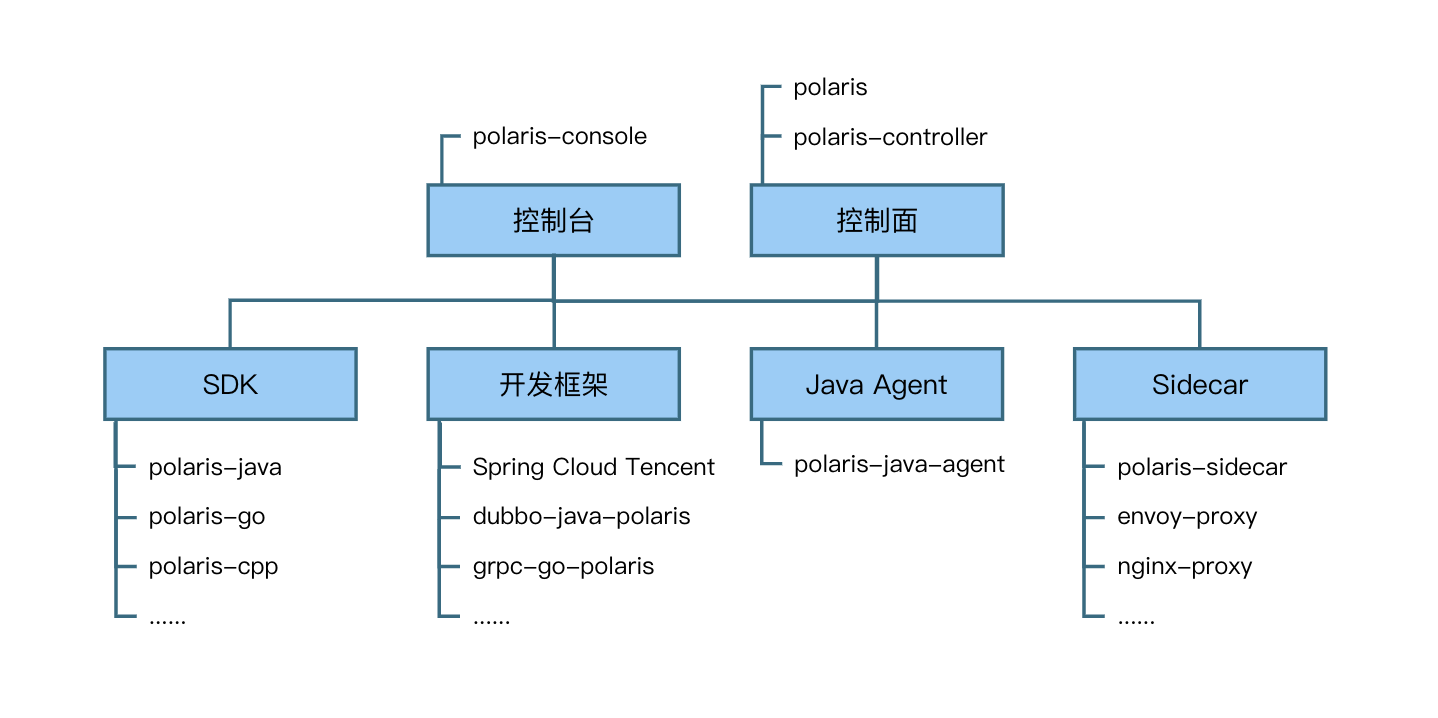
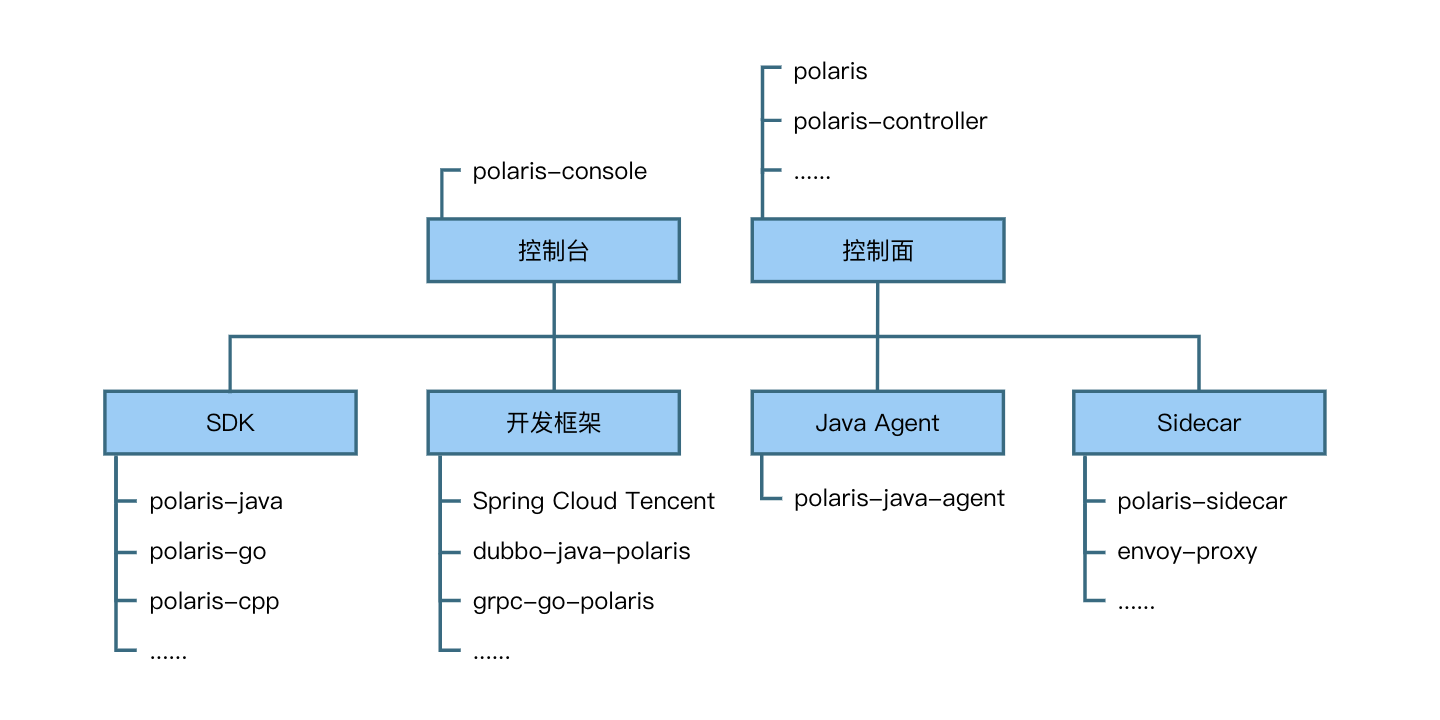
修改文档【北极星是什么/简介】：优化系统组件图片

diff --git a/docs/zh/doc/北极星是什么/简介.md b/docs/zh/doc/北极星是什么/简介.md
@@ -49,11 +49,11 @@
 
 - Polaris：采用 Go 语言实现，没有状态，部署简单。支持服务注册发现、健康检查和元数据管理，支持自定义路由、限流和熔断规则，支持配置变更、版本管理和远程下发，支持各种数据面的接入。简单来说，可以覆盖服务注册中心、服务网格控制面和配置中心的功能。
 
-- Polaris Controller：可选的功能组件。支持 K8s 服务同步和网格代理注入。K8s 服务同步将 K8s 服务全量或者按需同步到北极星，应用程序不需要显式地注册服务。网格代理注入按需在应用程序 Pod 里注入 Polaris Sidecar，以流量代理的方式实现服务发现和治理功能。
+- Polaris Controller：可选的功能组件。支持 K8s 服务同步和网格代理注入。K8s 服务同步将 K8s 服务全量或者按需同步到北极星，应用程序不需要显式地注册服务。网格代理注入按需在应用程序 Pod 里注入北极星 Sidecar，以流量代理的方式实现服务发现和治理功能。
 
 数据面组件：
 
-- SDK：北极星提供轻量级的多语言 SDK，支持服务注册发现、动态路由、负载均衡、访问限流和熔断降级等功能。和使用绝大部分客户端软件类似，在应用程序里引入北极星 SDK，调用相应的功能接口。这种数据面形态以无流量代理的方式实现服务发现和治理功能，没有额外的性能和资源损耗，不会增加现网运维和问题定位的成本。
+- SDK：北极星提供轻量级的多语言 SDK，支持服务注册发现、动态路由、负载均衡、访问限流和熔断降级等功能。使用方法和绝大部分客户端软件类似，在应用程序里引入北极星 SDK，调用相应的功能接口。这种数据面形态以无流量代理的方式实现服务发现和治理功能，没有额外的性能和资源损耗，不会增加现网运维和问题定位的成本。
 
 - 开发框架：北极星 SDK 可以被集成到开发框架内部，用户不需要显式地使用北极星 SDK。对于 Spring Cloud、Dubbo 和 gRPC 等开发框架，北极星社区提供无缝集成的依赖包，不需要改动业务代码即可接入。go-micro、go-kratos、go-zero、GoFrame 和 CloudWeGo 等开发框架社区也开始提供北极星插件。
 
